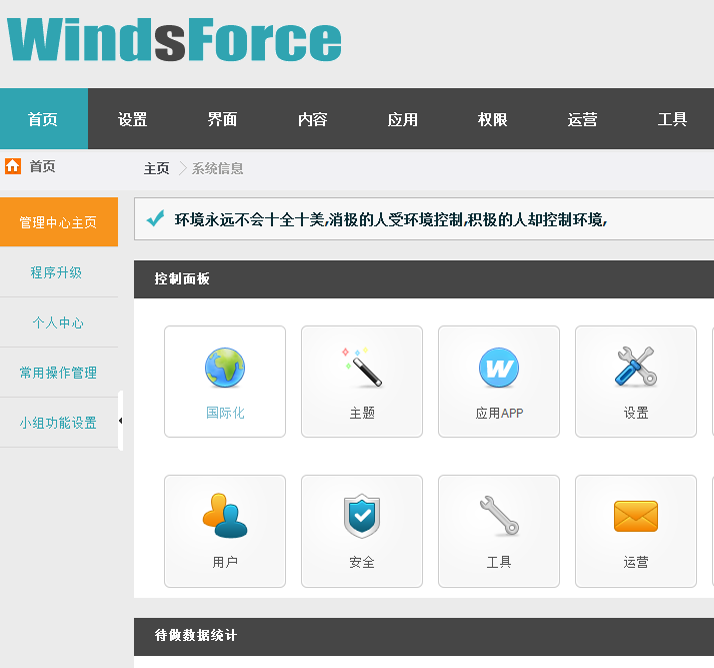
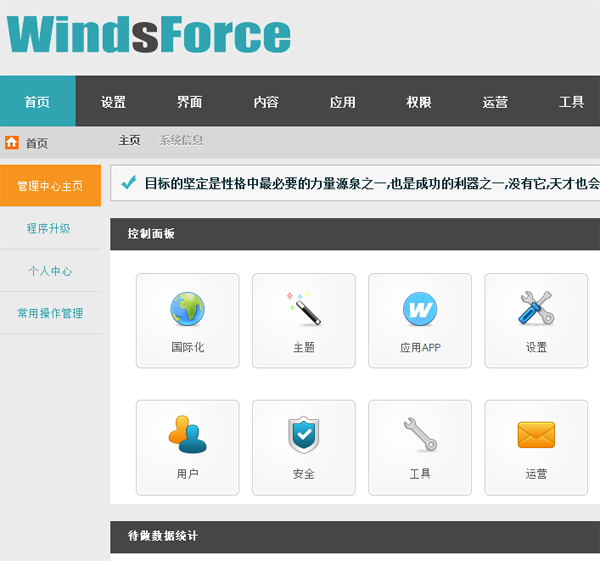
优化了一些图片

diff --git a/upload/config/Config.inc.php b/upload/config/Config.inc.php
@@ -75,7 +75,7 @@
   'TEMPLATE_TAG_NOTE' => true,
   'APP_DEVELOP' => 0,
   'FRONT_TPL_DIR' => 'Default',
-  'ADMIN_TPL_DIR' => 'Default',
+  'ADMIN_TPL_DIR' => 'Simple',
   'CACHE_LIFE_TIME' => 8640000,
   'BOOTSTRAP_ON' => true,
   'BOOTSTRAP_VERSION' => '2.0.3',
